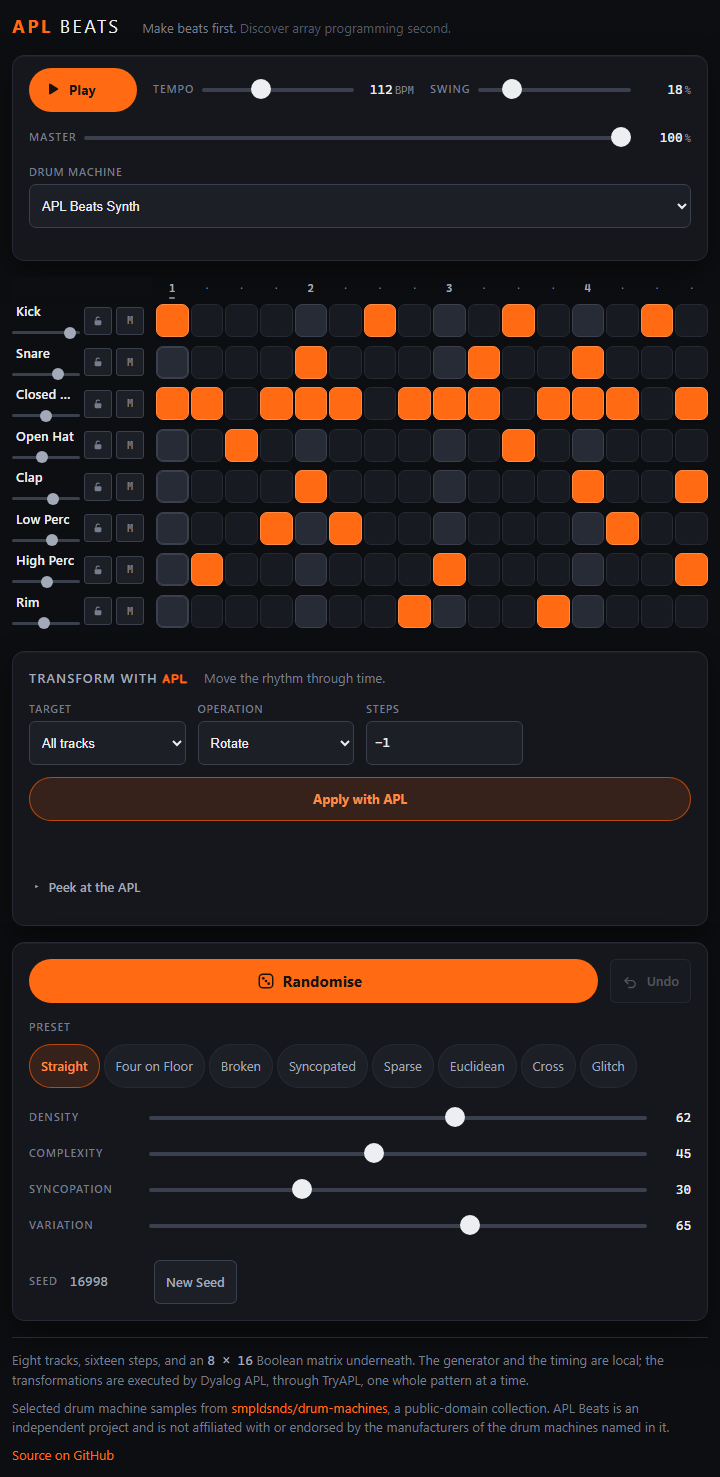
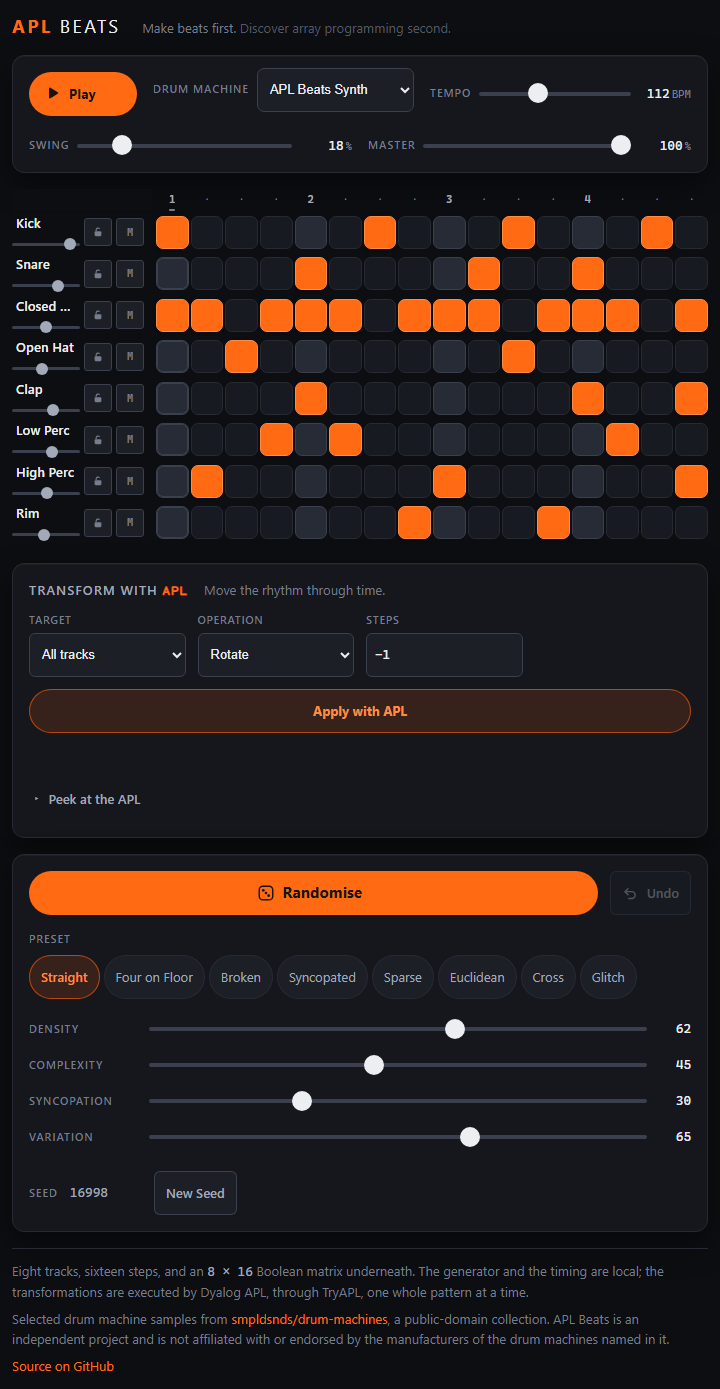
Put the whole transport back on one row
Adding Master made five controls where there had been four, and the drum machine selector went
with them onto a second row — leaving a large empty area and a panel twice as tall as it needed
to be, at ordinary desktop widths. Layout only; no audio behaviour is touched.

Three things were wrong, and the order matters.

The selector was laid out label-above-control while everything beside it was label-beside-control,
which made it a head taller than its neighbours and the obvious thing for the browser to push
aside. It now reads like the dials it sits among.

It also reserved a permanent blank row for a status line shown for a fraction of a second while a
kit decodes. An empty paragraph has no line box and so no height; the row is gone when there is
nothing to say, and the element stays in the DOM rather than being hidden, because a live region
that only appears when it has something to announce is one some screen readers never announce.

And the dials asked for a fixed width each. A flex line breaks on its items' *hypothetical* sizes
rather than on what they could shrink to, so five controls each insisting on their natural width
wrapped even though there was room for them to share. They now take a modest basis and grow into
whatever is left, which is why the strip stays on one line and simply gets roomier on a wider
screen.

Measured rather than eyeballed, by grouping the laid-out controls into vertical bands:
[…]

Changed region(s): [[0.0, 0.0, 1.0, 0.9906], [0.9167, 0.743, 0.9778, 0.8359], [0.8861, 0.6192, 0.9472, 0.6811]]

diff --git a/tests/e2e/masterVolume.spec.ts b/tests/e2e/masterVolume.spec.ts
@@ -157,6 +157,39 @@ test('is remembered, and does not start playing', async ({ page }) => {
   expect(problems).toEqual([]);
 });
 
+test('survives discarding an Explore draft', async ({ page }) => {
+  /*
+   * The interaction that had a bug in it. Load current transform throws the draft away, and for
+   * one commit it threw the volume away too — invisible until a reload, and invisible to every
+   * test that only ever looked at one storage key at a time.
+   */
+  const problems = watchForProblems(page);
+  await freshVisit(page);
+
+  await master(page).fill('37');
+  await page.getByRole('button', { name: 'Peek at the APL' }).click();
+  await page.getByRole('button', { name: 'Edit this APL' }).click();
+
+  const editor = page.getByRole('textbox', { name: 'Your APL expression' });
+  await editor.fill('~m[2;]');
+  await page.waitForTimeout(700);
+
+  await page.getByRole('button', { name: 'Load current transform' }).click();
+  await expect(master(page)).toHaveValue('37');
+
+  await page.waitForTimeout(400);
+  await page.reload();
+  await expect(page.locator(CELL).first()).toBeVisible();
+
+  // The draft is gone, as asked. The volume is not.
+  await expect(master(page)).toHaveValue('37');
+  await page.getByRole('button', { name: 'Peek at the APL' }).click();
+  await page.getByRole('button', { name: 'Edit this APL' }).click();
+  await expect(page.getByRole('textbox', { name: 'Your APL expression' })).toHaveValue('¯1⌽m');
+
+  expect(problems).toEqual([]);
+});
+
 test('survives a change of drum machine', async ({ page }) => {
   const problems = watchForProblems(page);
   await freshVisit(page);
@@ -243,6 +276,81 @@ test('the transport bar still fits, with the new control on it', async ({ page }
 });
 
 /* ------------------------------------------------------------------------- */
+
+test('the desktop transport is one row', async ({ page }, testInfo) => {
+  /*
+   * A regression guard with a specific memory.
+   *
+   * Adding Master made five controls where there had been four, and the drum machine selector —
+   * which was laid out label-above-control, a head taller than its neighbours — was pushed onto a
+   * second row on its own. The bar went from one line to two and gained a large empty area, at
+   * ordinary desktop widths, which is not something a screenshot review should have to catch.
+   *
+   * Rows are counted from the laid-out geometry rather than from the CSS: group every control by
+   * its vertical centre and count the distinct bands. That is what "one row" means to somebody
+   * looking at it, so it is what gets asserted.
+   */
+  test.skip(testInfo.project.use.hasTouch === true, 'Stacking is the intended layout on a phone.');
+
+  const problems = watchForProblems(page);
+  await page.setViewportSize({ width: 1280, height: 900 });
+  await freshVisit(page);
+
+  const layout = await page.evaluate(() => {
+    const bar = document.querySelector('[class*="bar"]');
+    if (bar === null) return null;
+
+    const controls = [...bar.querySelectorAll('button, input[type="range"], select')];
+    const bands: number[] = [];
+    for (const control of controls) {
+      const box = control.getBoundingClientRect();
+      const centre = box.top + box.height / 2;
+      if (!bands.some((existing) => Math.abs(existing - centre) < 12)) bands.push(centre);
+    }
+
+    return {
+      rows: bands.length,
+      height: bar.getBoundingClientRect().height,
+      controls: controls.length,
+      overflow: document.documentElement.scrollWidth - document.documentElement.clientWidth,
+    };
+  });
+
+  expect(layout).not.toBeNull();
+  // Play, the kit selector, and the three dials — all of them, on one line.
+  expect(layout?.controls).toBe(5);
+  expect(layout?.rows, 'the transport wrapped onto more than one row').toBe(1);
+  // One row of controls plus padding. Two rows measured 90px, so this fails loudly if it returns.
+  expect(layout?.height ?? 0).toBeLessThan(72);
+  expect(layout?.overflow).toBeLessThanOrEqual(1);
+
+  expect(problems).toEqual([]);
+});
+
+test('the controls stay a usable size once they share a row', async ({ page }, testInfo) => {
+  // Fitting on one line must not have been bought by making everything tiny.
+  test.skip(testInfo.project.use.hasTouch === true, 'Stacking is the intended layout on a phone.');
+
+  const problems = watchForProblems(page);
+  await page.setViewportSize({ width: 1280, height: 900 });
+  await freshVisit(page);
+
+  for (const name of ['Tempo', 'Swing', 'Master volume']) {
+    const box = await page.getByRole('slider', { name }).boundingBox();
+    expect(box?.width ?? 0, `${name} is too narrow to use`).toBeGreaterThanOrEqual(80);
+    expect(box?.height ?? 0, `${name} is too short to hit`).toBeGreaterThanOrEqual(16);
+  }
+
+  const select = await page.getByRole('combobox', { name: 'Drum machine' }).boundingBox();
+  expect(select?.width ?? 0).toBeGreaterThanOrEqual(120);
+  expect(select?.height ?? 0).toBeGreaterThanOrEqual(28);
+
+  // And Play is still the strongest thing on the bar.
+  const play = await page.getByRole('button', { name: 'Play', exact: true }).boundingBox();
+  expect(play?.height ?? 0).toBeGreaterThanOrEqual(32);
+
+  expect(problems).toEqual([]);
+});
 
 test('is the final attenuation stage, and 100% is the output we already had', async ({ page }) => {
   /*

diff --git a/src/components/DrumMachineSelect.module.css b/src/components/DrumMachineSelect.module.css
@@ -7,24 +7,37 @@
  */
 
 .field {
-  display: grid;
-  /* Label, control, status: the third row is usually empty and must not move the other two. */
-  grid-template-rows: auto auto 1rem;
-  align-content: center;
-  gap: var(--space-1);
+  /*
+   * A row, like the tempo and swing dials beside it.
+   *
+   * Stacked label-over-control it was a head taller than everything else on the bar, which is
+   * what pushed it onto a line of its own at ordinary desktop widths and left the transport
+   * twice as tall as it needed to be. Laid out the same way as its neighbours it simply takes
+   * its place among them.
+   */
+  display: flex;
+  /*
+   * Does not grow. The three dials share the leftover width between them; this one only needs
+   * to be wide enough to read a machine's name in.
+   */
+  flex: 0 1 auto;
+  align-items: center;
+  gap: var(--space-2);
+  min-width: 0;
 }
 
 .label {
   font-size: var(--text-xs);
   font-weight: 600;
-  letter-spacing: 0.06em;
+  letter-spacing: 0.08em;
   text-transform: uppercase;
   color: var(--text-dim);
+  white-space: nowrap;
 }
 
 .select {
   min-height: var(--control-height);
-  min-width: 11rem;
+  min-width: 8rem;
   padding: 0 var(--space-2);
   border: 1px solid var(--line-strong);
   border-radius: var(--radius-md);
@@ -45,37 +58,48 @@
 }
 
 /*
- * One line, reserved whether or not there is anything in it.
+ * One line, and no space at all when there is nothing to say.
  *
- * The row is sized in the grid above, so a kit that starts loading does not nudge the tempo
- * slider sideways — a control that moves while you are reaching for it is worse than a moment
- * of blank space.
+ * It used to reserve a blank row whether or not a kit was loading, which cost the transport a
+ * row of height permanently to accommodate a message shown for a fraction of a second. An empty
+ * paragraph has no line box and therefore no height, so idle costs nothing — and it stays in the
+ * DOM rather than being hidden, because a live region that only appears when it has something to
+ * say is a live region some screen readers never announce.
  */
 .status {
   min-width: 0;
+  margin: 0;
   font-size: var(--text-xs);
   line-height: 1rem;
   color: var(--text-dim);
-  /* Long enough to be a sentence on failure; truncated rather than allowed to reflow the bar. */
-  overflow: hidden;
-  text-overflow: ellipsis;
   white-space: nowrap;
 }
 
 .statusFailed {
   color: var(--accent-bright);
-  /* A failure is worth reading in full, so this one may wrap out of its reserved line. */
-  overflow: visible;
+  /* A failure is worth reading in full, so it may wrap rather than being clipped. */
   white-space: normal;
 }
 
 @media (pointer: coarse), (max-width: 52rem) {
-  /* On a phone the bar is a column, so the selector becomes the thing underneath, full width. */
+  /*
+   * On a phone the bar is a column, so the selector becomes the thing underneath: full width,
+   * with its label above it again because there is no room beside it.
+   */
   .field {
+    flex: 1 1 14rem;
+    flex-wrap: wrap;
     width: 100%;
   }
 
   .select {
-    width: 100%;
+    flex: 1 1 8rem;
+    width: auto;
+    min-width: 8rem;
+  }
+
+  .status {
+    flex-basis: 100%;
+    white-space: normal;
   }
 }

diff --git a/src/components/TransportBar.module.css b/src/components/TransportBar.module.css
@@ -2,7 +2,7 @@
   display: flex;
   flex-wrap: wrap;
   align-items: center;
-  gap: var(--space-3) var(--space-5);
+  gap: var(--space-3) var(--space-3);
   padding: var(--space-3) var(--space-4);
   border: 1px solid var(--line);
   border-radius: var(--radius-lg);
@@ -67,8 +67,24 @@
   text-align: left;
 }
 
+/*
+ * A dial shares the width that is left, rather than claiming a fixed amount.
+ *
+ * Fixed-width sliders were what pushed Master onto a second row: five controls each insisting on
+ * their natural size added up to more than the bar had, and flex wrapping obliged. Letting the
+ * three dials flex means they take exactly what remains after Play and the kit selector, so the
+ * strip stays on one line and simply gets roomier on a wider screen.
+ */
 .dial {
   display: flex;
+  /*
+   * The basis is what decides wrapping — a flex line breaks on the items' hypothetical sizes,
+   * not on what they could shrink to. At `auto` each dial asked for its full natural width and
+   * five of those did not fit, which is what put Master on a row of its own. Eleven and a half
+   * rems is comfortably more than the dial's minimum and small enough that all five fit; on a
+   * wider screen they simply grow into the space.
+   */
+  flex: 1 1 10.5rem;
   align-items: center;
   gap: var(--space-2);
   min-width: 0;
@@ -87,7 +103,11 @@
   display: inline-flex;
   align-items: baseline;
   gap: 0.15em;
-  min-width: 3.75rem;
+  /*
+   * Wide enough for "112 BPM" and "100 %" so the number changing does not shift the slider
+   * beside it, and no wider — this is repeated three times across the bar.
+   */
+  min-width: 3.25rem;
   font-family: var(--font-mono);
   font-size: var(--text-sm);
   font-variant-numeric: tabular-nums;
@@ -104,8 +124,13 @@
 .slider {
   -webkit-appearance: none;
   appearance: none;
-  width: 9rem;
-  min-width: 5rem;
+  /*
+   * Grows into whatever the dial was given. The basis is small enough that three of them never
+   * force a wrap, and `min-width` is what stops "shares the space" becoming "is a sliver".
+   */
+  flex: 1 1 4rem;
+  width: auto;
+  min-width: 3.5rem;
   height: 1.25rem;
   margin: 0;
   background: none;
@@ -174,6 +199,7 @@
   }
 
   .slider {
+    flex: 1 1 6rem;
     width: 100%;
     height: 1.75rem;
   }

diff --git a/src/components/TransportBar.tsx b/src/components/TransportBar.tsx
@@ -24,7 +24,7 @@ export interface TransportBarProps {
   readonly masterVolume: number;
   readonly onMasterVolumeChange: (volume: number) => void;
   /**
-   * The instrument control, at the far end of the bar.
+   * The instrument control, immediately after Play.
    *
    * A slot rather than a prop for the kit itself, so this component's own props stay about the
    * transport. What goes in it is the drum machine selector: which instrument, then play it.
@@ -77,6 +77,15 @@ export function TransportBar({
         </span>
         <span className={styles.playLabel}>{isPlaying ? 'Pause' : 'Play'}</span>
       </button>
+
+      {/*
+        The instrument, immediately after Play.
+        Which is the order somebody works in: press the thing that makes a sound, then decide
+        what it should sound like, then shape how it is played. It also puts the one control
+        that is not a slider next to the one control that is not a dial, so the three dials read
+        as a group rather than being interrupted.
+      */}
+      {instrument}
 
       <div className={styles.dial}>
         <label className={styles.dialLabel} htmlFor="transport-bpm">
@@ -158,8 +167,6 @@ export function TransportBar({
           <span className={styles.unit}>%</span>
         </output>
       </div>
-
-      {instrument}
     </div>
   );
 }
